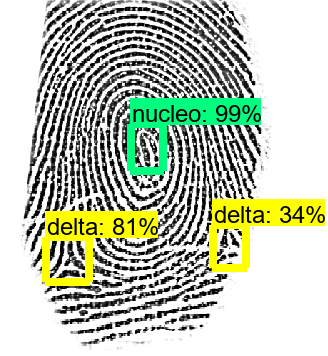
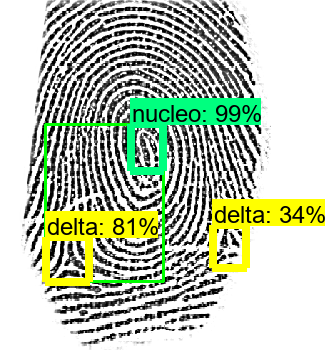
cropped images

Changed region(s): [[0.2744, 0.4944, 0.5183, 0.8034], [0.122, 0.3399, 0.3963, 0.618]]

diff --git a/Tensorflow_Object_Detection/workspace/object_detection_tutorial.py b/Tensorflow_Object_Detection/workspace/object_detection_tutorial.py
@@ -210,7 +210,19 @@ def run_inference_for_single_image(image, graph):
         teste=cv2.rectangle(image_np,(coordinates[0][2],coordinates[0][1]),
                             (coordinates[1][0],coordinates[1][3]),verde,2)
 
-        crop = image_np[coordinates[0][2]:coordinates[0][1] , coordinates[1][0]:coordinates[1][3]].copy()
+
+
+        y = coordinates[0][1]
+        x = coordinates[1][0]
+        w = coordinates[0][2] - x
+        h= coordinates[1][3] - y
+
+        croped_image = image_np[y:y+h, x:x+w]
+
+
+
+
+
 
 
     return output_dict
